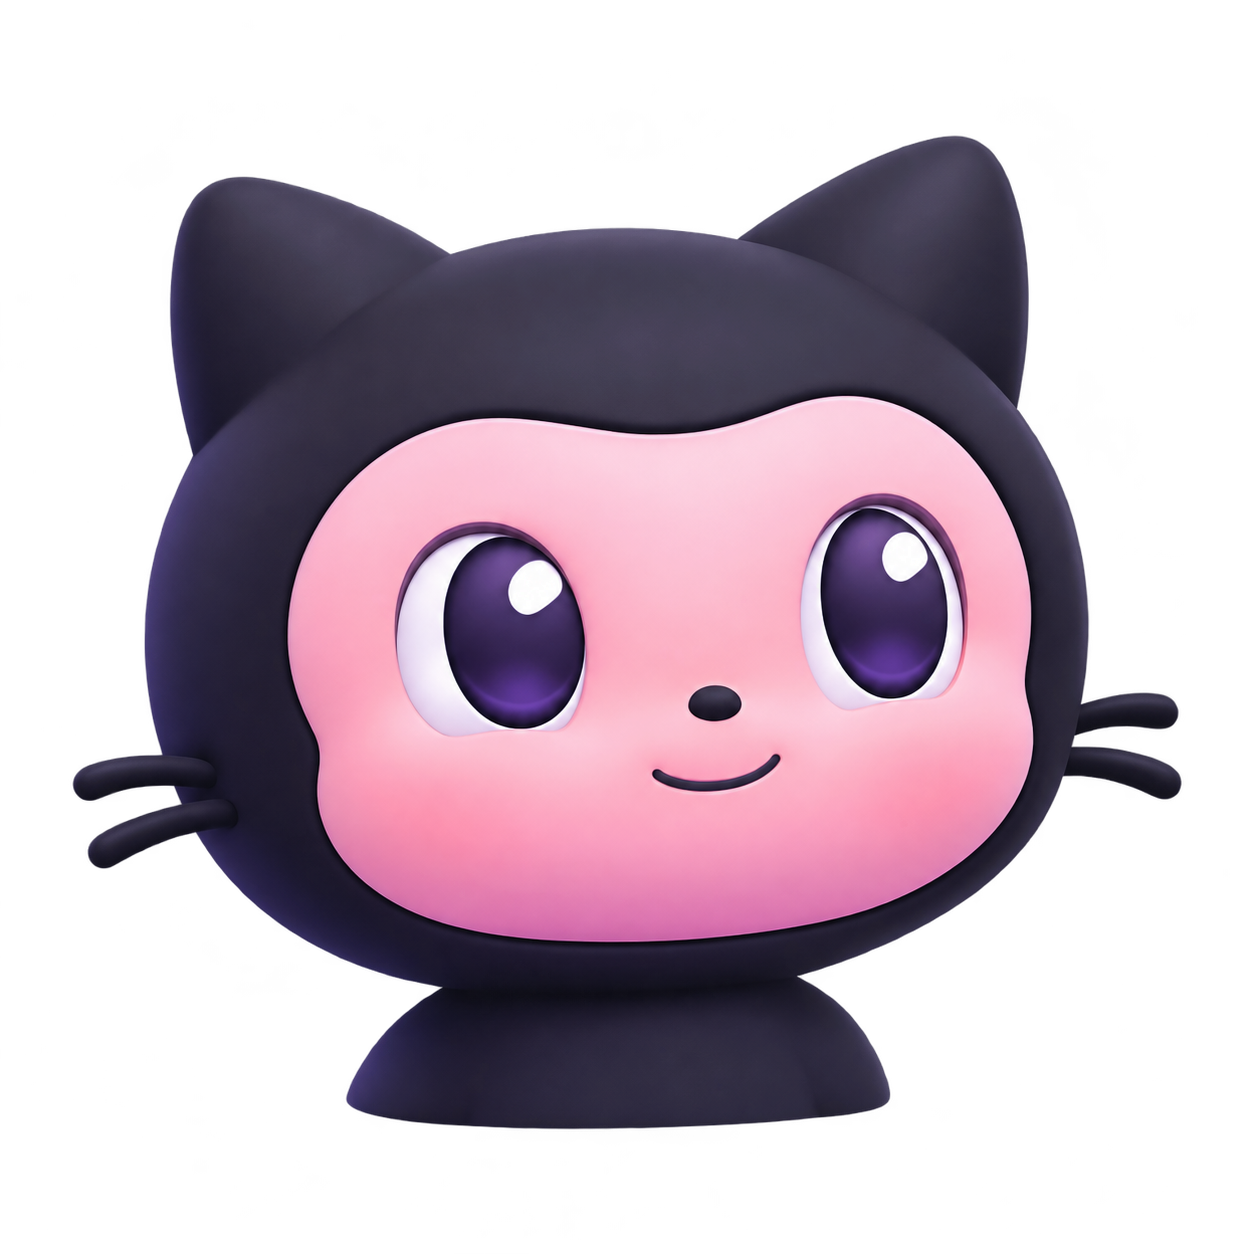
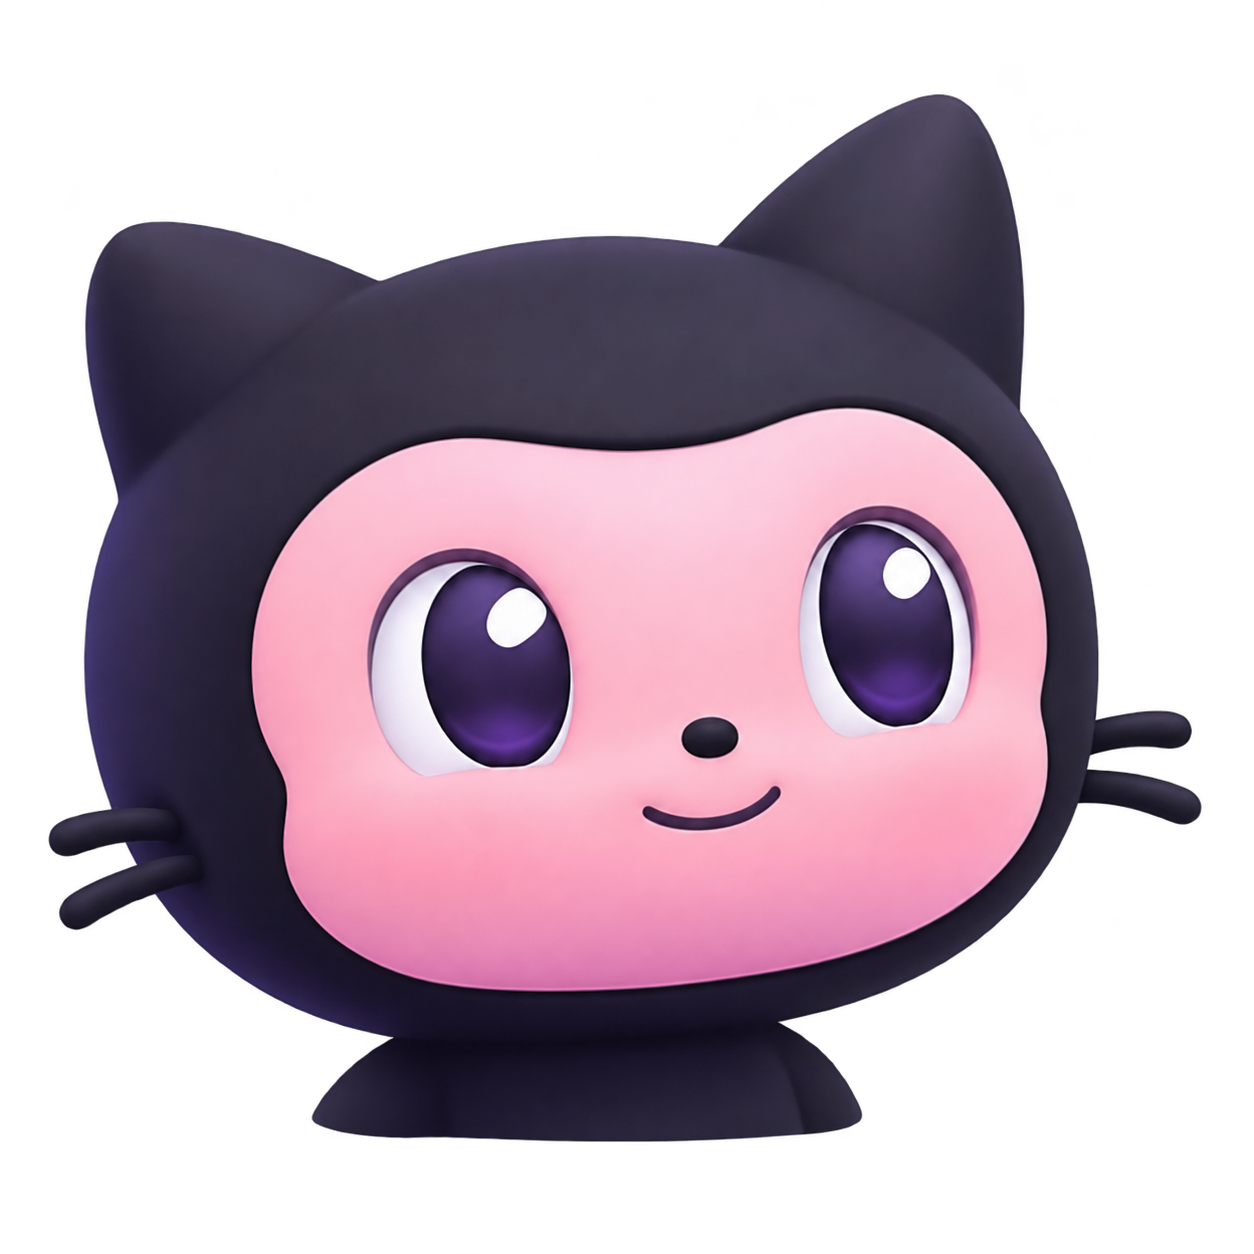
docs: enhance README and refine mascot

diff --git a/public/index.html b/public/index.html
@@ -45,7 +45,7 @@
             <path fill="#ff7b17" d="M-40 96h112c25 0 45 20 45 45v48c0 20-15 35-35 35H-40Z"/>
             <path fill="#6338f2" d="M-36 202h148c25 0 43 19 43 43v91c0 19-15 34-34 34H-36Z"/>
             <path fill="#fb54c2" d="M-40 332h174c26 0 46 20 46 46v178c0 21-17 38-38 38H-40Z"/>
-            <image class="hero-cat-mascot" href="/images/github-cat-mascot.png" x="40" y="120" width="350" height="350" preserveAspectRatio="xMidYMid meet"/>
+            <image class="hero-cat-mascot" href="/images/github-cat-mascot.png" x="0" y="135" width="310" height="310" preserveAspectRatio="xMidYMid meet"/>
             <g filter="url(#clay-shadow)">
               <rect x="84" y="382" width="230" height="204" rx="27" fill="url(#left-tile)"/>
               <text class="art-code" x="122" y="446">.java</text><text class="art-code" x="100" y="499">.java</text><text class="art-code" x="194" y="499">.java</text>

diff --git a/scripts/check.js b/scripts/check.js
@@ -362,7 +362,7 @@ try {
   for (const [, file] of html.matchAll(/(?:src|href)="\/((?:js|css|images)\/[^\"]+)"/g)) {
     assert.ok(statSync(join("public", file)).isFile(), `Referenced asset exists: ${file}`);
   }
-  assert.match(html, /<image class="hero-cat-mascot" href="\/images\/github-cat-mascot\.png" x="40" y="120" width="350" height="350" preserveAspectRatio="xMidYMid meet"\/>/);
+  assert.match(html, /<image class="hero-cat-mascot" href="\/images\/github-cat-mascot\.png" x="0" y="135" width="310" height="310" preserveAspectRatio="xMidYMid meet"\/>/);
   assert.match(html, /<rect x="84" y="382" width="230" height="204" rx="27" fill="url\(#left-tile\)"/, "the original Java card remains in place above the cat's lower body");
   assert.match(html, /<svg class="hero-art-right"/, "the existing terminal illustration remains present");
   const mascotAsset = readFileSync("public/images/github-cat-mascot.png");

diff --git a/README.md b/README.md
@@ -1,58 +1,152 @@
 # GH-Insights
 
-GH-Insights is a GitHub Developer Intelligence & Personality Analyzer. Enter a public GitHub username to explore repository patterns, primary languages, public activity, and transparent profile signals. V/S mode places two public profiles side by side without declaring an overall winner.
+### GitHub personality and developer intelligence analyzer
 
-## Features
+**Explore the story behind any GitHub developer.**
 
-- Public GitHub profile and repository collection through Vercel serverless functions.
-- Paginated repository collection, bounded at 1,000 repositories with visible coverage status.
-- Primary-language distribution, repository portfolio, stars, forks, and recent public events.
-- Explainable developer pattern labels and an application-specific weighted indicator.
-- Two-profile comparison and optional Gemini summary, gentle roast, and comparison verdict.
-- Dark/light themes, responsive layout, recent usernames, print/PDF through the browser, SVG chart export, and GitHub profile links.
-- Same-origin API by default, server-only credentials, strict username validation, safe text rendering, bounded requests, and security headers.
+GH-Insights turns public GitHub profile, repository, language, and activity data into an interactive report. Optional Google Gemini perspectives add context to those signals; they are clearly distinguished from measured statistics.
 
-No production deployment URL is configured yet.
+<p align="center">
+  <a href="https://github.com/ayushcmd/gh-insights">
+    <img src="https://img.shields.io/badge/GitHub-Repository-181717?style=for-the-badge&logo=github&logoColor=white" alt="GitHub repository">
+  </a>
+  <img src="https://img.shields.io/badge/Frontend-Vanilla%20JavaScript-F7DF1E?style=for-the-badge&logo=javascript&logoColor=black" alt="Vanilla JavaScript">
+  <img src="https://img.shields.io/badge/Runtime-Node.js-339933?style=for-the-badge&logo=nodedotjs&logoColor=white" alt="Node.js">
+  <img src="https://img.shields.io/badge/Deploy%20target-Vercel-black?style=for-the-badge&logo=vercel" alt="Vercel deployment target">
+</p>
 
-## Technology
+---
 
-Vanilla HTML, CSS, and JavaScript ES modules; Node.js 20+; Vercel Functions; GitHub REST API; optional Gemini API. There are no runtime npm dependencies and no database.
+## What it does
 
-## Project structure
+Enter a public GitHub username to explore a structured profile report. Switch to **V/S** mode to compare two public profiles side by side. GH-Insights focuses on observable public data and explains the limits of each signal.
+
+### Developer insights
+
+- Explore public profile and repository information.
+- Review primary-language distribution, stars, forks, and recent public events.
+- See repository coverage and pagination limits in the report.
+- Explore explainable development patterns and application-specific indicators.
+- Open notable repositories on GitHub.
+
+### Profile comparison
+
+Compare repository statistics, language signals, public activity, and other available report data. The comparison presents differences without declaring an overall winner.
+
+### Optional Gemini perspectives
+
+When configured, Gemini can generate a developer summary, a gentle roast, or a neutral comparison verdict. Summary responses use a validated structured format when available, while existing Markdown responses remain supported. AI interpretations are presented separately from measured GitHub statistics.
+
+### Interface
+
+- Light and dark themes.
+- Responsive desktop and mobile layouts.
+- Recent profile history.
+- Printable reports and downloadable language-chart images.
+
+## How it is built
+
+| Area | Implementation |
+| --- | --- |
+| Frontend | HTML, CSS, and browser JavaScript modules |
+| Local server | Native Node.js HTTP modules |
+| Production API | Four Vercel Function entrypoints |
+| GitHub data | GitHub REST API |
+| Optional AI | Google Gemini API |
+| Runtime dependencies | None |
+
+The 13 existing public API paths are preserved. Vercel rewrites group related paths through `/api/health`, `/api/github`, `/api/insights`, and `/api/ai`. Local development dispatches those paths to the same route-specific handlers; it does not require Vercel CLI, account login, or project linking.
 
 ```text
-api/                 Four Vercel function entrypoints for health, GitHub, insights, and AI
-lib/                 Shared route handlers, GitHub collection, scoring, security, cache, and Gemini logic
-public/              Static HTML, CSS, and browser ES modules
-server/              Native Node.js local development server and .env.local loader
-scripts/              Syntax, logic, and mocked local HTTP checks
-docs/                API, deployment, and environment documentation
-.env.example         Placeholder environment variable names
-vercel.json          Static deployment and security headers
+Browser ──► local Node server or Vercel Functions
+                         │
+              shared route handlers
+                  ┌──────┴──────┐
+                GitHub       Gemini
+                 REST          API
 ```
 
-The 13 public API URLs are preserved. Vercel rewrites route related URLs through four grouped functions; the same endpoint handlers are used directly by local development.
+## Run locally
 
-## Local setup
+### Requirements
 
-1. Install Node.js 20 or newer.
-2. Optionally copy `.env.example` to `.env.local` and enter credentials there. `.env.local` is ignored by Git.
-3. Run `npm run dev` (or `npm start`) from the project root.
-4. Open `http://localhost:3000`. Public GitHub analysis works without credentials, with lower unauthenticated API limits. Gemini features remain unavailable until both Gemini variables are configured.
+- Node.js 20 or newer.
+- Git, if cloning the repository.
 
-Run `npm run check` for JavaScript syntax, local analysis/validation smoke checks, mocked GitHub pagination and Gemini-header checks, Vercel route imports, and local HTTP route tests. All upstream requests in these checks are mocked; no live API calls are made. Live integrations must be checked after deployment configuration.
+The project has no runtime npm dependencies, so installing packages is not required for development.
+
+### Start the app
+
+```bash
+git clone https://github.com/ayushcmd/gh-insights.git
+cd gh-insights
+npm run dev
+```
+
+Open [http://localhost:3000](http://localhost:3000). `npm start` launches the same server.
+
+Public GitHub analysis works without credentials, subject to GitHub's lower unauthenticated rate limits. Gemini is optional and remains unavailable until its server-side key and model are configured.
+
+### Configure optional credentials
+
+Copy `.env.example` to `.env.local` in the project root, then add values as needed. The local server loads this ignored file without printing its contents.
+
+| Variable | Purpose |
+| --- | --- |
+| `GITHUB_TOKEN` | Optional server-side token for higher GitHub API limits. Public data only; do not grant private repository access. |
+| `GEMINI_API_KEY` | Optional server-side Gemini API key. |
+| `GEMINI_MODEL` | Gemini model ID for the configured project; the example uses `gemini-3.8-flash`. |
+| `ALLOWED_ORIGINS` | Optional comma-separated list of exact origins for a separately hosted frontend. |
+
+Keep credentials out of frontend code, URLs, and committed files. See [Environment Setup](docs/ENVIRONMENT_SETUP.md) for details.
+
+### Run checks
+
+```bash
+npm run check
+```
+
+The checks cover JavaScript syntax, analysis and validation, structured and legacy Gemini responses, API routing, and local HTTP behavior. Upstream GitHub and Gemini responses are mocked; the checks do not make live API calls.
+
+## API routes
+
+All endpoints return JSON. See [API Documentation](docs/API_DOCUMENTATION.md) for request formats, responses, and error behavior.
+
+| Method | Endpoint | Purpose |
+| --- | --- | --- |
+| GET | `/api/health` | Service and safe Gemini configuration status |
+| GET | `/api/github/profile` | Public profile fields |
+| GET | `/api/github/repositories` | Public repositories and coverage metadata |
+| GET | `/api/github/activity` | Recent available public activity |
+| GET | `/api/github/languages` | Repository primary-language distribution |
+| POST | `/api/insights/analyze` | Full developer report |
+| POST | `/api/insights/personality` | Explainable public activity patterns |
+| POST | `/api/insights/score` | Application-specific indicator and formula |
+| POST | `/api/insights/deep` | Detailed report with collected repository metadata |
+| POST | `/api/insights/compare` | Two-profile comparison |
+| POST | `/api/ai/summary` | Optional Gemini summary |
+| POST | `/api/ai/roast` | Optional gentle roast |
+| POST | `/api/ai/verdict` | Optional comparison perspective |
 
 ## Deploy
 
-Follow [DEPLOYMENT_GUIDE.md](docs/DEPLOYMENT_GUIDE.md), then configure the variables from [ENVIRONMENT_SETUP.md](docs/ENVIRONMENT_SETUP.md). Add secrets using Vercel's project environment-variable settings, never in source files.
+GH-Insights is configured for Vercel. Follow the [Deployment Guide](docs/DEPLOYMENT_GUIDE.md) and add optional secrets through Vercel Project Settings. The application keeps API keys on the server and does not expose them to browser code.
 
-## Limitations
+## Data and interpretation limits
 
-- Only public profile and repository data is collected. No private repository scope is requested.
-- Repository collection is bounded to 1,000 repositories per report. Coverage is labeled when that bound is reached.
-- Language distribution counts GitHub's primary-language label once per repository; it is not a byte share or skill estimate.
-- Public events are a limited recent feed (up to 300 returned events here), not a full contribution history.
-- Documentation presence and source-code quality are not measured. Maintenance signals use public push dates and archive state.
-- Scores and archetypes are explainable application signals, not official GitHub ratings, certifications, or psychological claims.
-- Cache and rate limits are in-memory best effort per serverless instance. They are not shared across deployments or instances.
-- Gemini is optional. The app's core GitHub analysis works without it.
+- Only public GitHub data is used; private repositories and private contributions are not included.
+- Repository collection is bounded at 1,000 repositories per report. Coverage metadata indicates when collection is incomplete.
+- Language distribution counts GitHub's primary-language label per repository; it is not a measure of code volume or proficiency.
+- Public events are a limited recent feed, not a lifetime contribution history.
+- Scores and pattern labels are explainable application signals, not official GitHub ratings or skill assessments.
+- Repository metadata alone cannot establish code quality, architecture, testing practices, or professional experience.
+- Gemini output is an interpretation of the available data, not a verified fact about a developer's skills or personality.
+
+GH-Insights is an independent project and is not an official GitHub product.
+
+## Project documentation
+
+- [API Documentation](docs/API_DOCUMENTATION.md)
+- [Deployment Guide](docs/DEPLOYMENT_GUIDE.md)
+- [Environment Setup](docs/ENVIRONMENT_SETUP.md)
+- [Security](SECURITY.md)
